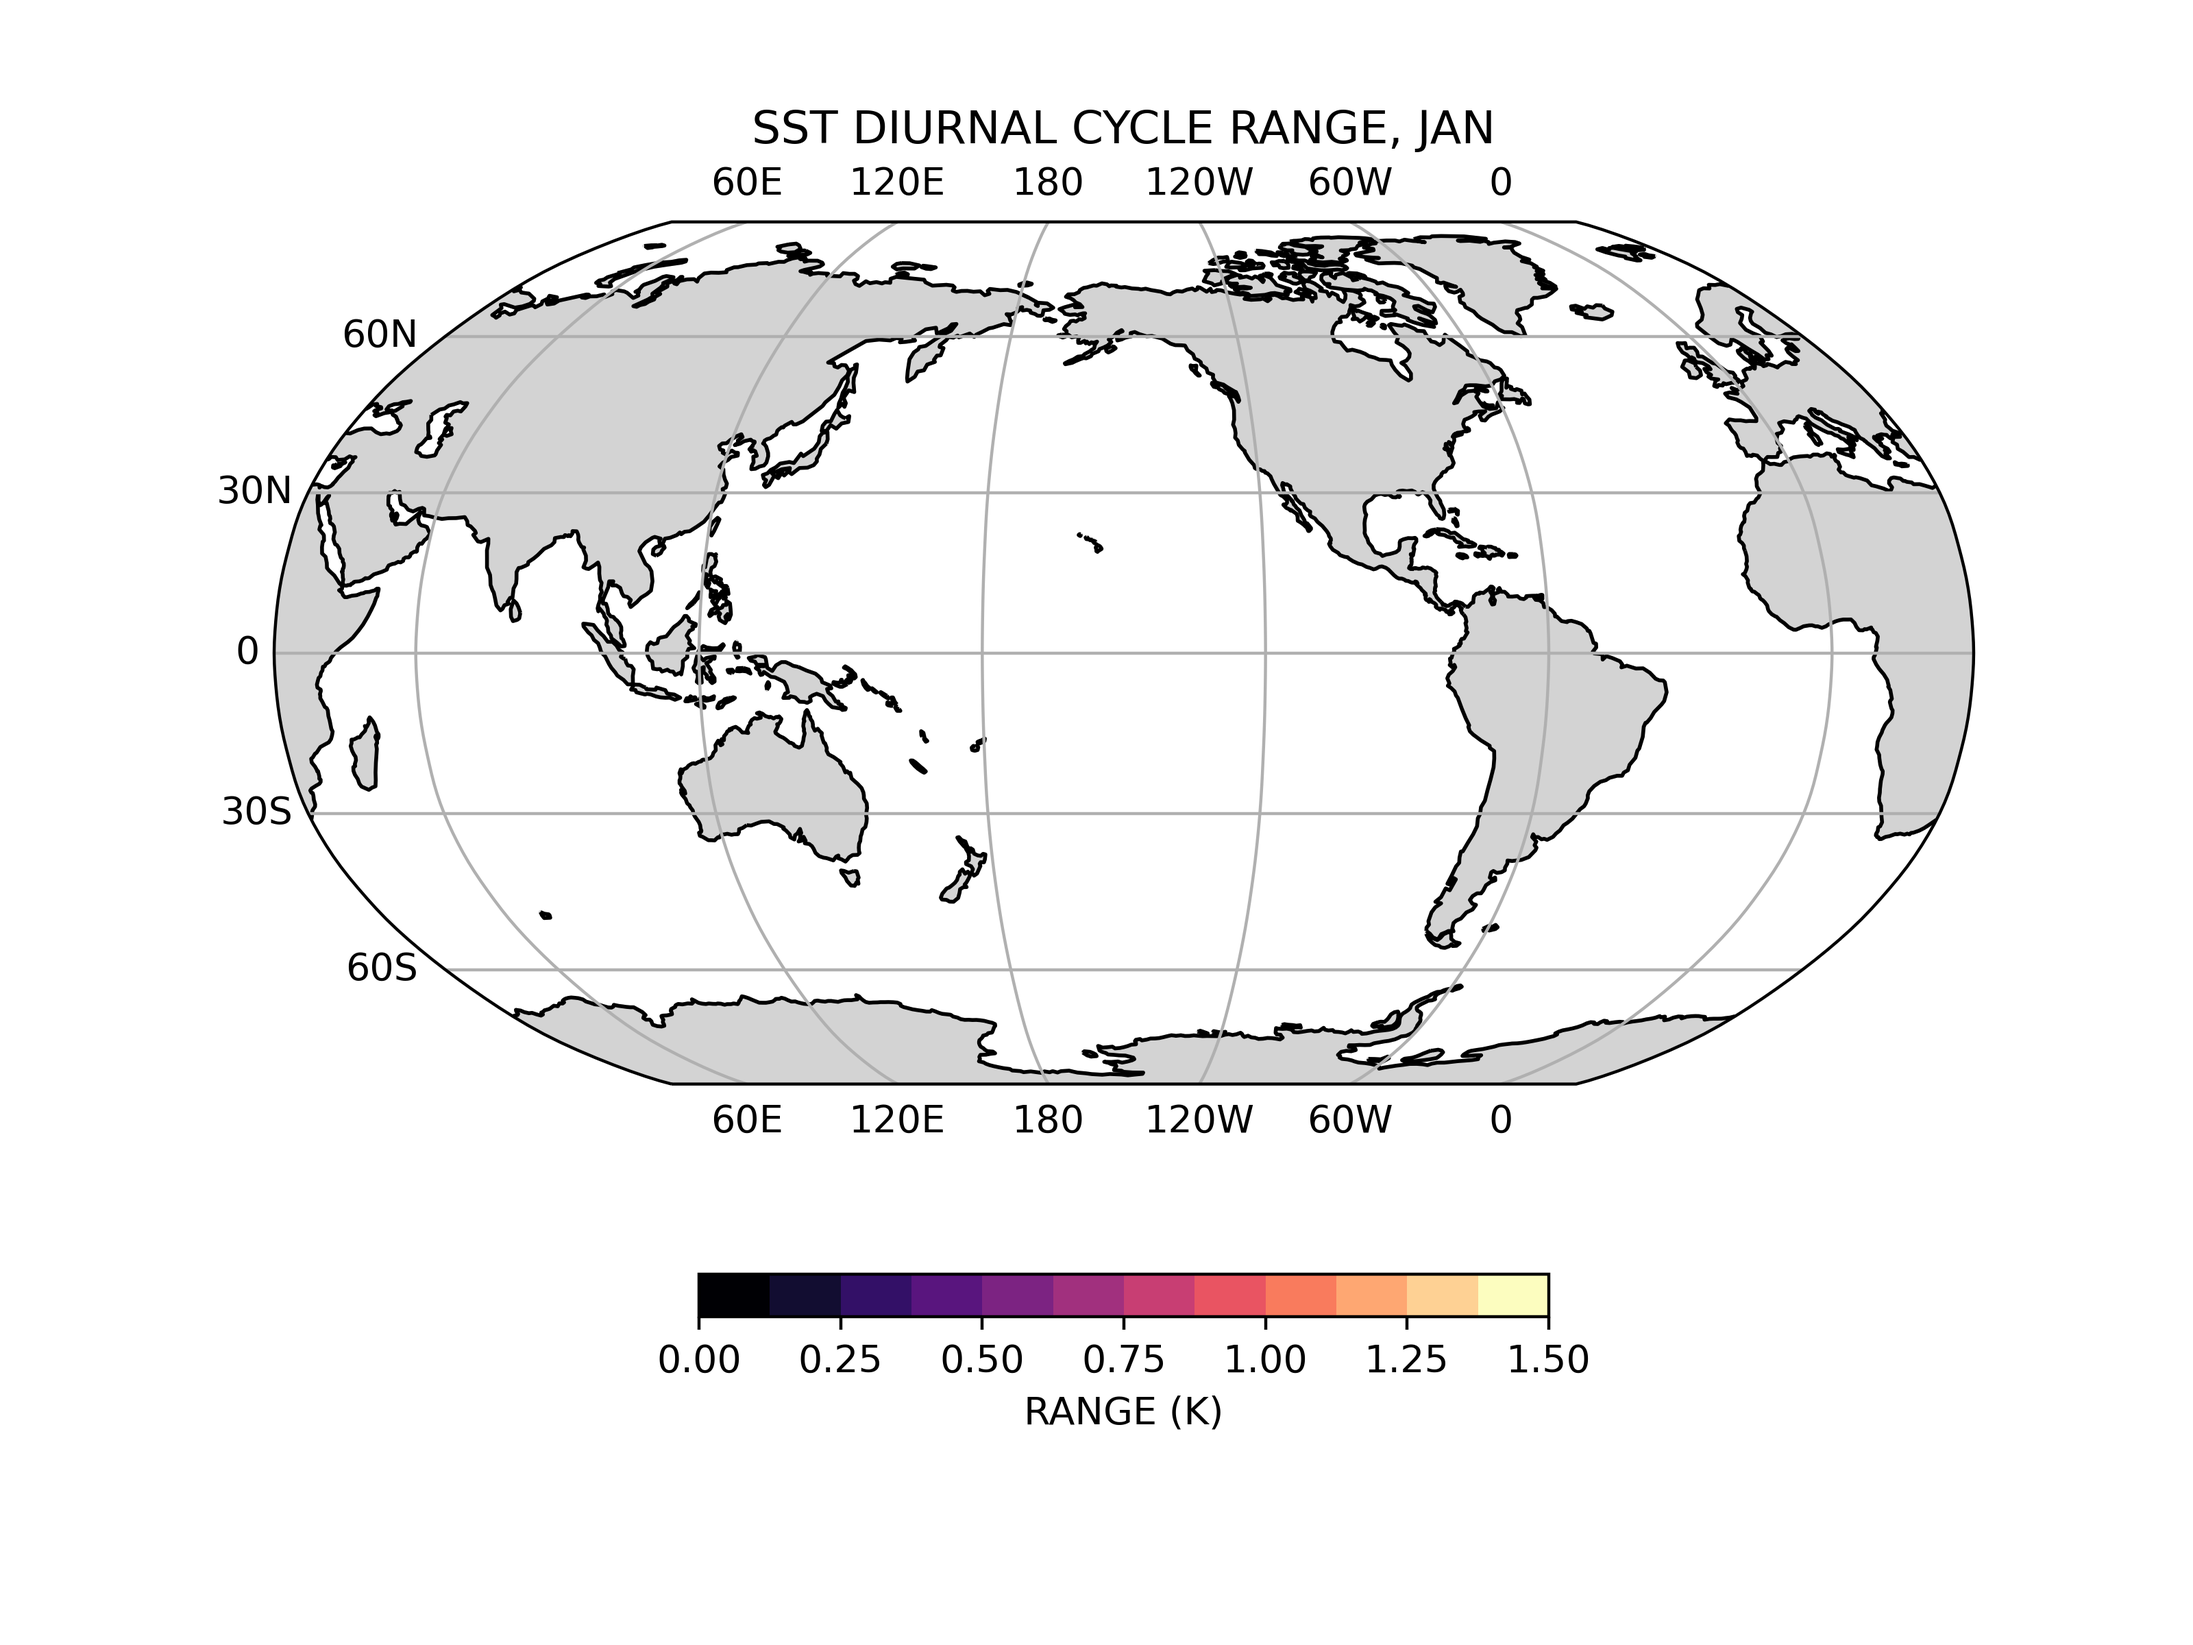
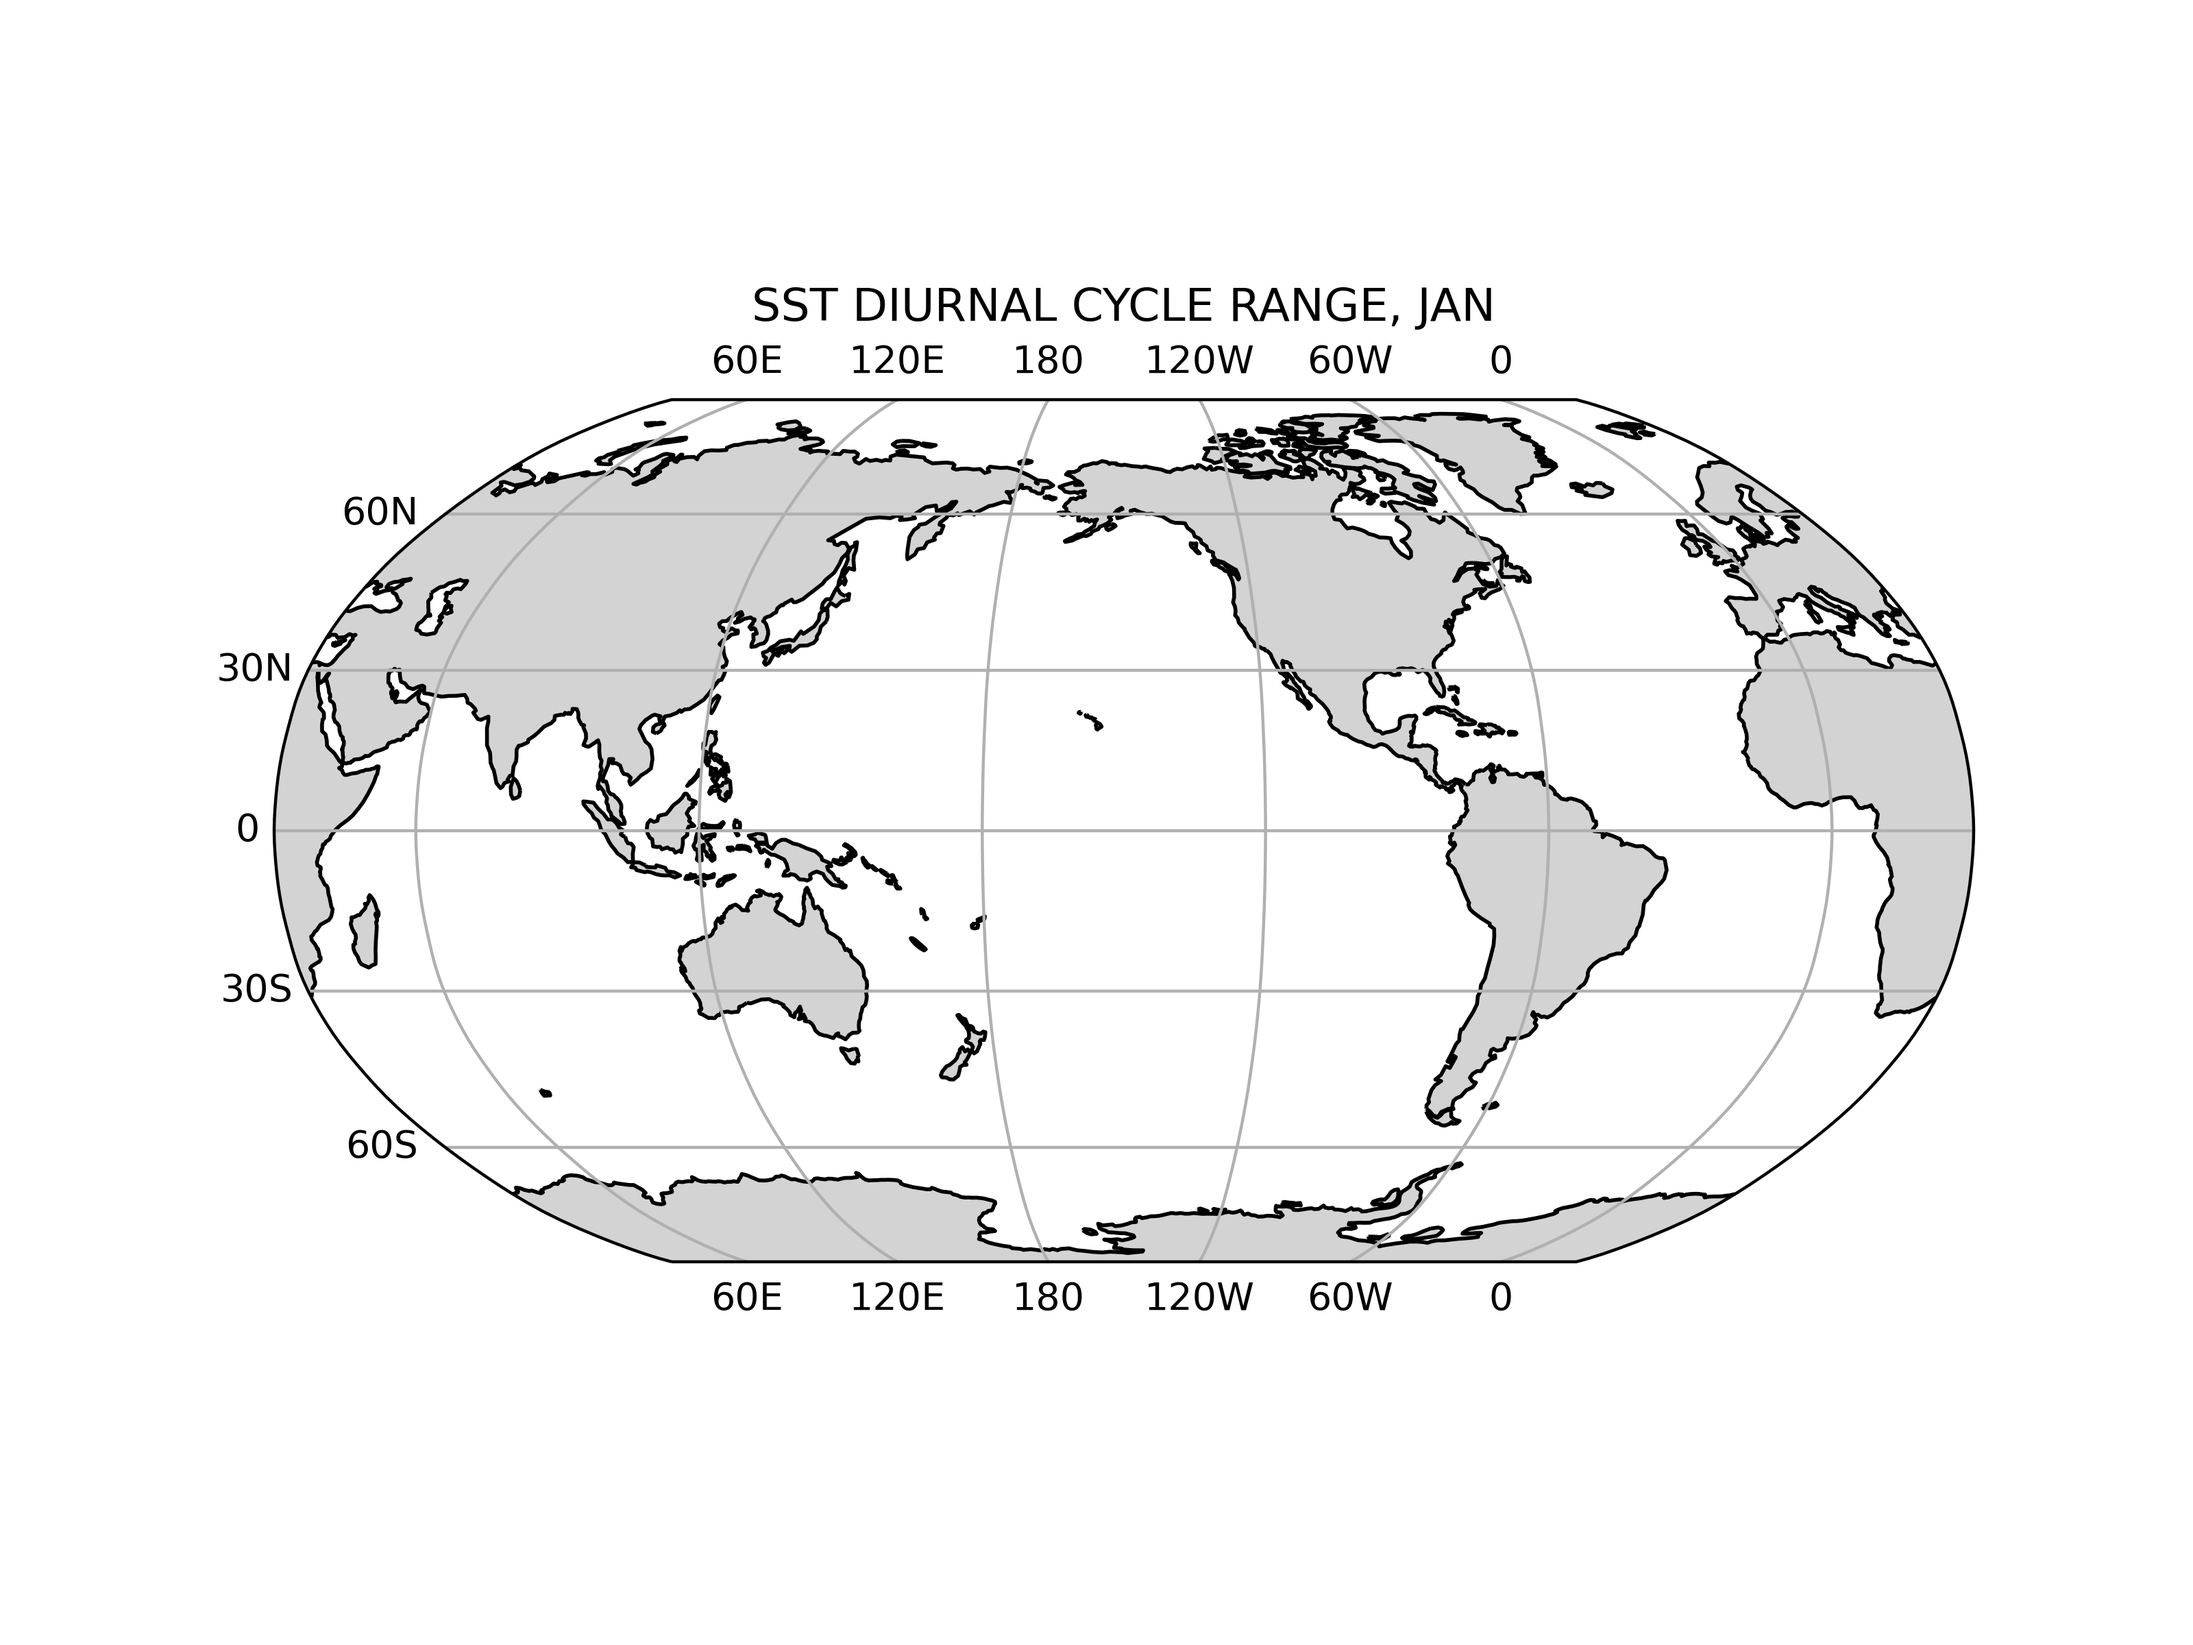
Updates test plot.

diff --git a/diurnal_cycle/analysis/diurnal_range_maps.py b/diurnal_cycle/analysis/diurnal_range_maps.py
@@ -216,9 +216,9 @@ def plot_one_map(ds, ptype, pvar, mon):
     # Finish up figure.
     ax.set_title(plot_dets(pvar, 'plotname') + ' DIURNAL CYCLE ' + ptype
                  + ', ' + mon)
-    fig.colorbar(p,
-                 label=ptype + ' (' + plot_dets(pvar, 'units', ptype) + ')',
-                 ax=ax, orientation='horizontal',shrink=0.5)
+    #fig.colorbar(p,
+    #             label=ptype + ' (' + plot_dets(pvar, 'units', ptype) + ')',
+    #             ax=ax, orientation='horizontal',shrink=0.5)
     
     # Save file.
     plotdir = '/ncrc/home2/Jack.Reeveseyre/cfs-analysis/diurnal_cycle/plots/'
